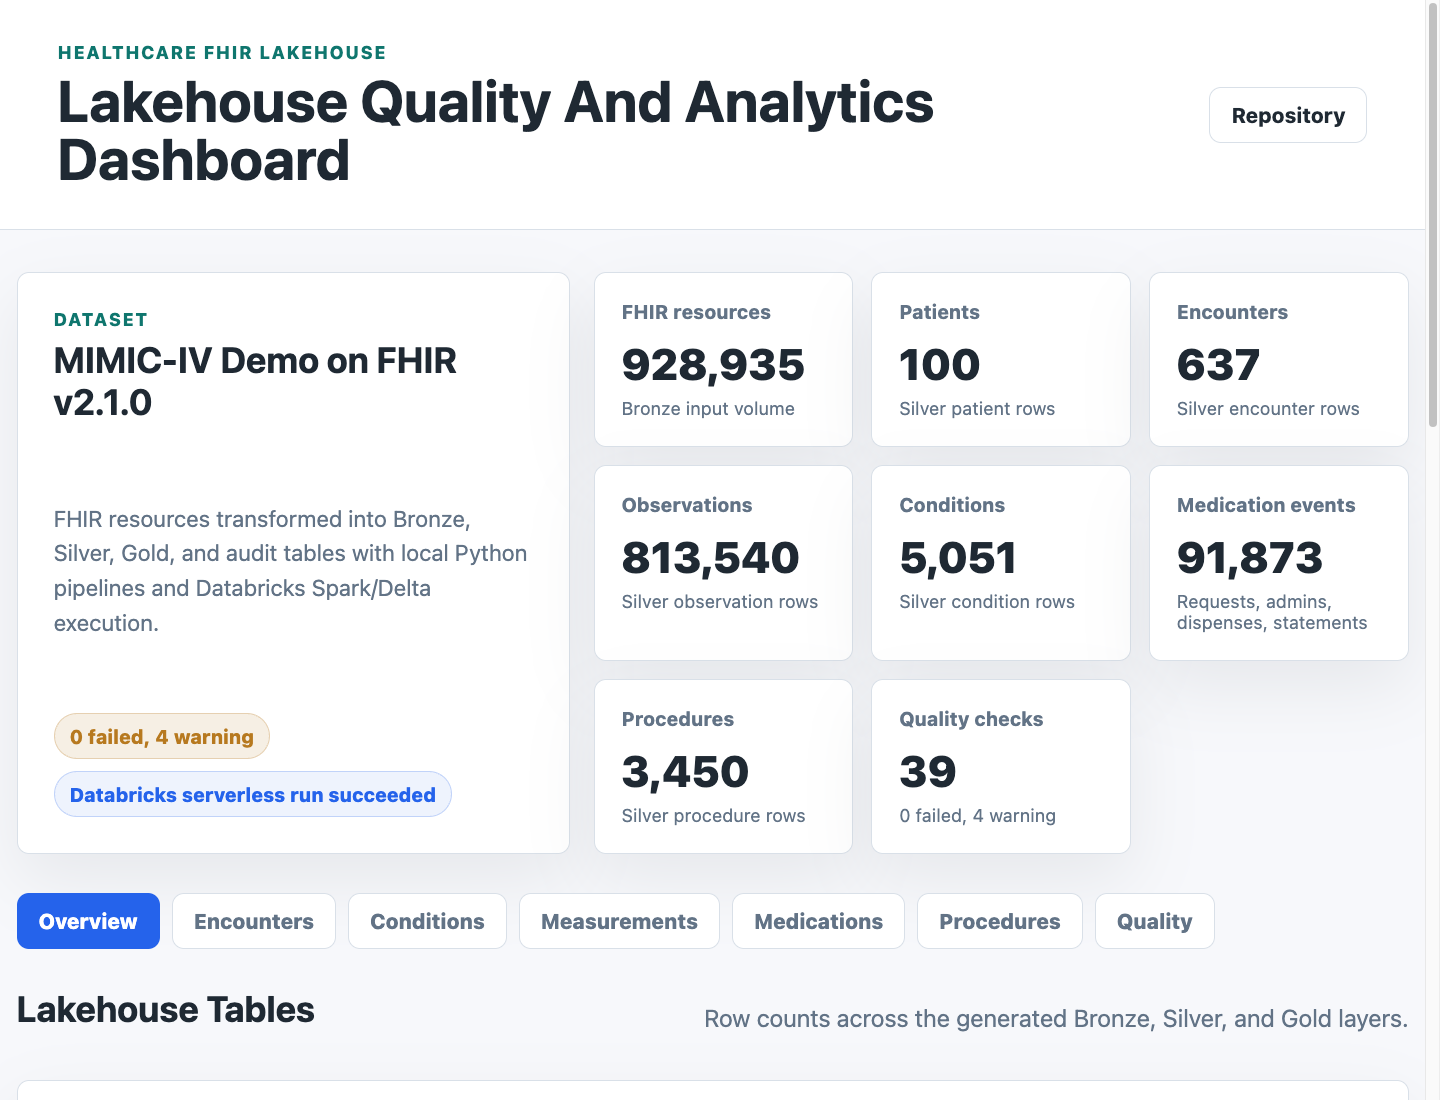
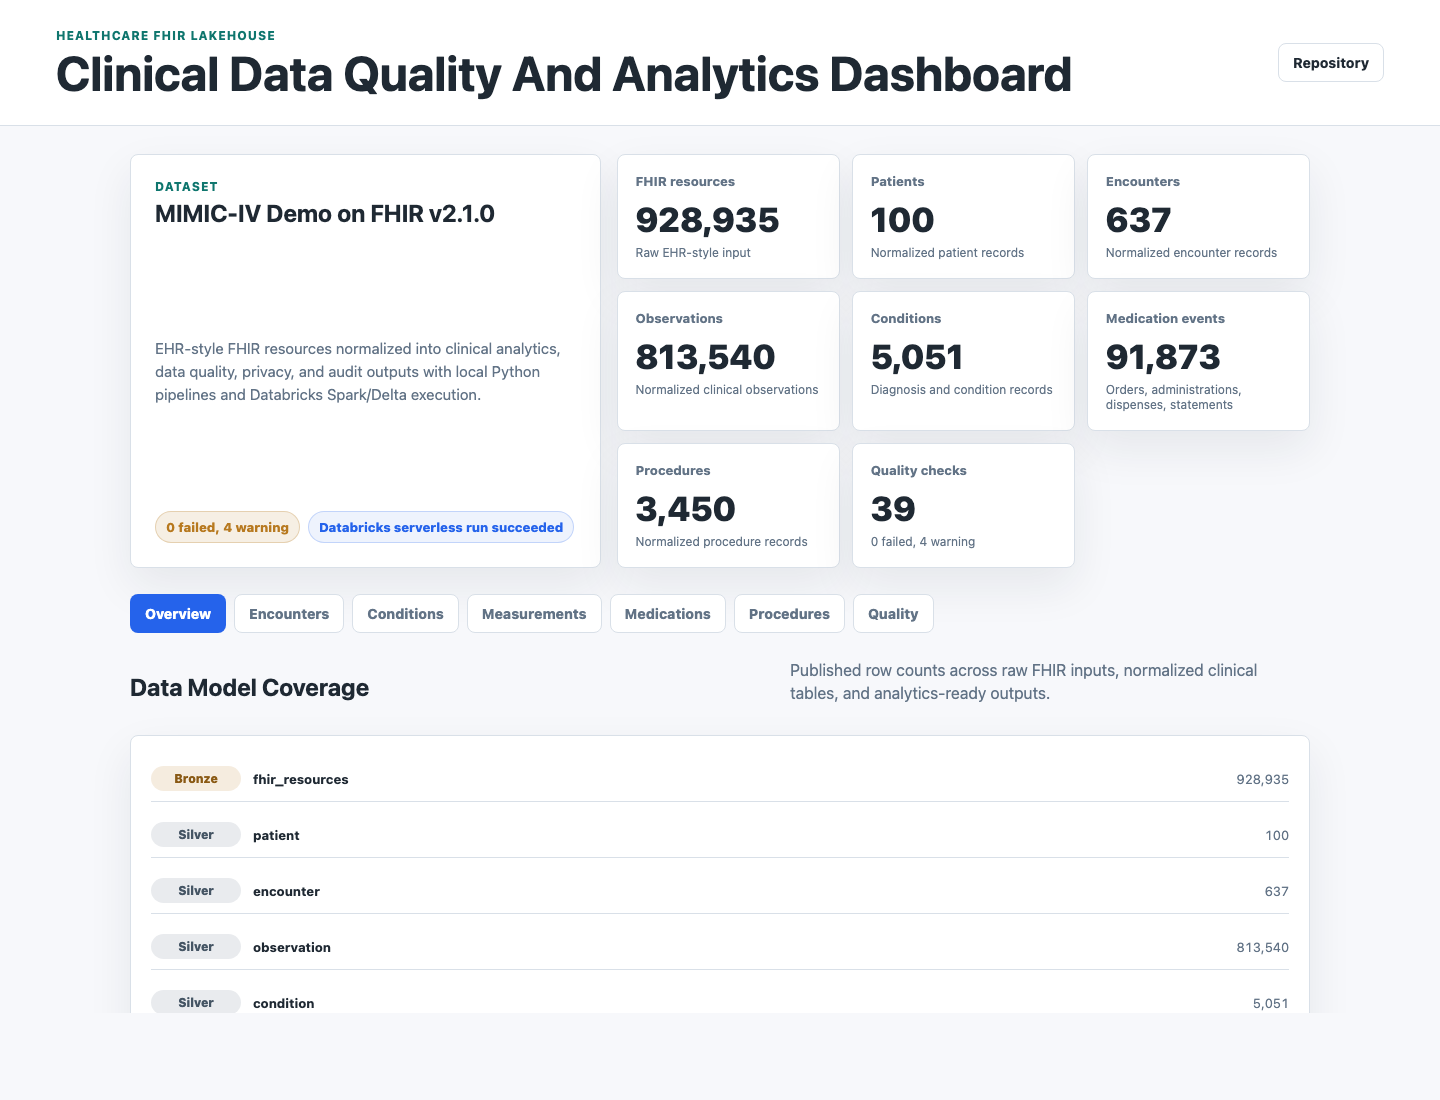
Refine dashboard clinical presentation

diff --git a/docs/index.html b/docs/index.html
@@ -3,7 +3,7 @@
   <head>
     <meta charset="utf-8" />
     <meta name="viewport" content="width=device-width, initial-scale=1" />
-    <title>Healthcare FHIR Lakehouse Dashboard</title>
+    <title>Healthcare FHIR Clinical Analytics Dashboard</title>
     <link rel="icon" href="data:," />
     <link rel="stylesheet" href="./assets/styles.css" />
   </head>
@@ -11,7 +11,7 @@
     <header class="topbar">
       <div>
         <p class="eyebrow">Healthcare FHIR Lakehouse</p>
-        <h1>Lakehouse Quality And Analytics Dashboard</h1>
+        <h1>Clinical Data Quality And Analytics Dashboard</h1>
       </div>
       <a class="repo-link" href="https://github.com/KevDev7/healthcare-fhir-lakehouse">Repository</a>
     </header>
@@ -33,9 +33,9 @@
             <h2 id="dataset-title">MIMIC-IV Demo on FHIR</h2>
           </div>
           <p class="summary-copy">
-            FHIR resources transformed into Bronze, Silver, Gold, and audit
-            tables with local Python pipelines and Databricks Spark/Delta
-            execution.
+            EHR-style FHIR resources normalized into clinical analytics, data
+            quality, privacy, and audit outputs with local Python pipelines and
+            Databricks Spark/Delta execution.
           </p>
           <div class="status-row">
             <span id="quality-status" class="status-pill">Loading</span>
@@ -57,8 +57,11 @@
 
       <section class="view active" id="overview">
         <div class="section-header">
-          <h2>Lakehouse Tables</h2>
-          <p>Row counts across the generated Bronze, Silver, and Gold layers.</p>
+          <h2>Data Model Coverage</h2>
+          <p>
+            Published row counts across raw FHIR inputs, normalized clinical
+            tables, and analytics-ready outputs.
+          </p>
         </div>
         <div id="table-counts" class="chart-grid"></div>
       </section>
@@ -113,7 +116,7 @@
       <section class="view" id="measurements">
         <div class="section-header">
           <h2>Vitals And Labs</h2>
-          <p>Gold measurement volumes and indexed event-day trends.</p>
+          <p>Measurement volumes and indexed clinical event-day trends.</p>
         </div>
         <div class="chart-grid two">
           <article class="chart-panel">
@@ -183,7 +186,10 @@
       <section class="view" id="quality">
         <div class="section-header">
           <h2>Audit And Quality</h2>
-          <p>Reference integrity, privacy checks, and consolidated data quality results.</p>
+          <p>
+            FHIR reference integrity, privacy validation, and consolidated data
+            quality results.
+          </p>
         </div>
         <div class="quality-layout">
           <article class="chart-panel">
@@ -191,7 +197,8 @@
             <div id="audit-hero" class="audit-hero-grid"></div>
             <p class="panel-note">
               Missing Observation encounter references are tracked as a FHIR-valid
-              coverage gap. Populated patient and encounter references resolve.
+              coverage gap. Populated clinical references resolve, and
+              PHI/identifier risk patterns are handled in privacy validation.
             </p>
             <div id="relationship-summary" class="audit-list"></div>
           </article>
@@ -209,9 +216,9 @@
           records are published in this dashboard.
         </div>
         <div class="footer-links">
-          <a href="../documentation/cloud_run_evidence.md">Cloud evidence</a>
-          <a href="../documentation/privacy_audit.md">Privacy audit</a>
-          <a href="../documentation/data_quality_report.md">Quality report</a>
+          <a href="https://github.com/KevDev7/healthcare-fhir-lakehouse/blob/main/documentation/cloud_run_evidence.md">Cloud evidence</a>
+          <a href="https://github.com/KevDev7/healthcare-fhir-lakehouse/blob/main/documentation/privacy_audit.md">Privacy audit</a>
+          <a href="https://github.com/KevDev7/healthcare-fhir-lakehouse/blob/main/documentation/data_quality_report.md">Quality report</a>
         </div>
       </footer>
     </main>

diff --git a/docs/assets/dashboard.js b/docs/assets/dashboard.js
@@ -33,13 +33,17 @@ function displayLabel(label) {
 
 function renderMetrics(data) {
   const metrics = [
-    ["FHIR resources", data.meta.source_resources, "Bronze input volume"],
-    ["Patients", data.meta.patients, "Silver patient rows"],
-    ["Encounters", data.meta.encounters, "Silver encounter rows"],
-    ["Observations", data.meta.observations, "Silver observation rows"],
-    ["Conditions", data.meta.conditions, "Silver condition rows"],
-    ["Medication events", data.meta.medication_events, "Requests, admins, dispenses, statements"],
-    ["Procedures", data.meta.procedures, "Silver procedure rows"],
+    ["FHIR resources", data.meta.source_resources, "Raw EHR-style input"],
+    ["Patients", data.meta.patients, "Normalized patient records"],
+    ["Encounters", data.meta.encounters, "Normalized encounter records"],
+    ["Observations", data.meta.observations, "Normalized clinical observations"],
+    ["Conditions", data.meta.conditions, "Diagnosis and condition records"],
+    [
+      "Medication events",
+      data.meta.medication_events,
+      "Orders, administrations, dispenses, statements",
+    ],
+    ["Procedures", data.meta.procedures, "Normalized procedure records"],
     [
       "Quality checks",
       data.quality_checks.length,
@@ -201,7 +205,7 @@ function renderQuality(data) {
     .reduce((total, [, value]) => total + value, 0);
 
   const auditHeroRows = [
-    ["Orphan references", orphanReferences, "populated references"],
+    ["Orphan references", orphanReferences, "clinical references"],
     [
       "Missing encounter context",
       relationship.observation_missing_encounter_id,
@@ -232,19 +236,19 @@ function renderQuality(data) {
   );
 
   const auditRows = [
-    ["Patient rows", relationship.patient_rows],
-    ["Encounter rows", relationship.encounter_rows],
-    ["Observation rows", relationship.observation_rows],
-    ["Condition rows", relationship.condition_rows],
-    ["Medication request rows", relationship.medication_request_rows],
-    ["Medication administration rows", relationship.medication_administration_rows],
-    ["Medication dispense rows", relationship.medication_dispense_rows],
-    ["Medication statement rows", relationship.medication_statement_rows],
-    ["Procedure rows", relationship.procedure_rows],
-    ["Observation orphan patients", relationship.observation_orphan_patient_id],
-    ["Observation orphan encounters", relationship.observation_orphan_encounter_id],
-    ["Condition orphan patients", relationship.condition_orphan_patient_id],
-    ["Condition orphan encounters", relationship.condition_orphan_encounter_id],
+    ["Patients", relationship.patient_rows],
+    ["Encounters", relationship.encounter_rows],
+    ["Observations", relationship.observation_rows],
+    ["Conditions", relationship.condition_rows],
+    ["Medication requests", relationship.medication_request_rows],
+    ["Medication administrations", relationship.medication_administration_rows],
+    ["Medication dispenses", relationship.medication_dispense_rows],
+    ["Medication statements", relationship.medication_statement_rows],
+    ["Procedures", relationship.procedure_rows],
+    ["Observation orphan patient refs", relationship.observation_orphan_patient_id],
+    ["Observation orphan encounter refs", relationship.observation_orphan_encounter_id],
+    ["Condition orphan patient refs", relationship.condition_orphan_patient_id],
+    ["Condition orphan encounter refs", relationship.condition_orphan_encounter_id],
   ];
 
   const auditList = el("div", "audit-list");
